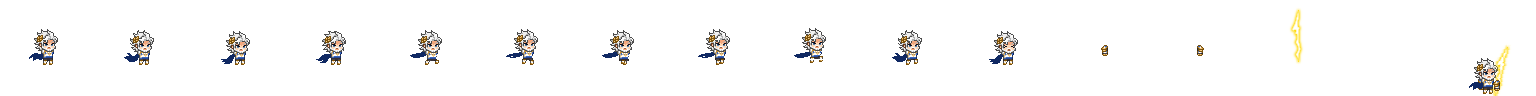
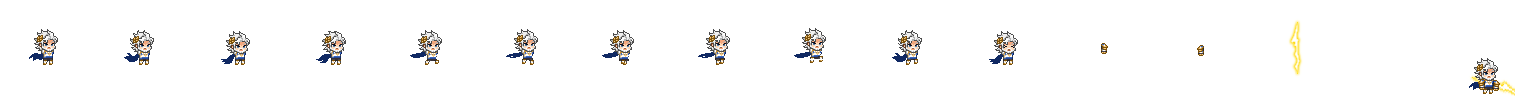
서약의 탑 제우스가 내린 오른손에 번개를 쥐고 창 던지듯 번개 자체를 던지도록 변경
- 원본 Arm0/Arm1이 뒤바뀌어 있던 것을 바로잡아 오른손(Arm1)을 내려 세운 앞 주먹으로, 왼손(Arm0)을 몸 앞 허리에 둠
- 번개는 끝이 앞을 향해 눕힌 뒤 시계 방향 20°(기본 각도 −110°)로 주먹 한가운데를 가로질러 쥐고, 무기 든 손과 번개는 몸 뒤·빈손은 몸 앞에 그림(weaponBehind)
- 어깨(4,13)·팔 길이 8px 모델: 주먹이 어깨에서 떨어지지 않고 팔 방향대로 돌아감(shoulder·arm)
- 공격은 팔을 앞으로 들어 머리 뒤로 젖혔다가 어깨 높이에서 수평으로 놓는 창 던지기(thrown). 게임이 쏘는 순간 ReleaseWeapon으로 손의 번개가 사라지고 복귀 때 다시 나타남
- 기본 공격 투사체를 같은 번개 스프라이트·금빛 후광·빛 꼬리로 그림(TowerVfx.ThrownWeapon, 번개 끝에서 출발)
- 시전 때 몸 앞 빈손은 얼굴을 가리지 않게 가슴 앞으로 내밂
- 생성기 paint_gods.py에 front·back·rest 덮어쓰기와 새 배치 키 추가, zeus.png·Gods.json 재베이크(다른 49장 동일)
- 검증: 격리 빌드에서 에덴 리뷰(50명·550포즈·144프레임), 신화 스모크 300/300, 동료 패시브 50/50, 실전 던지기 캡처

diff --git a/Assets/Demos/Roguelike/Scripts/TowerGodPixelArt.cs b/Assets/Demos/Roguelike/Scripts/TowerGodPixelArt.cs
@@ -20,8 +20,8 @@ namespace PrototypeLab.Roguelike
         [Serializable] sealed class Layout
         {
             public string id, kind; public int art;
-            public float[] bodyPivot, front, back, extra; public int[] bob, card;
-            public float top, rest, reach; public bool offhand, oneHand;
+            public float[] bodyPivot, front, back, extra, shoulder; public int[] bob, card;
+            public float top, rest, reach, arm; public bool offhand, oneHand, weaponBehind, thrown;
         }
         sealed class Sheet { public Layout layout; public Sprite[] body; public Sprite front, back, weapon, offhand, card; }
 
@@ -93,12 +93,12 @@ namespace PrototypeLab.Roguelike
 
         Sheet sheet;
         Layout layout;
-        Transform flip, pose, frontPivot, backPivot, weaponPivot, offhandPivot;
+        Transform flip, pose, frontPivot, backPivot, weaponPivot, offhandPivot, fistGrip;
         Transform[] extraPivots;
         SpriteRenderer bodyView, weaponView;
         SpriteRenderer[] views;
-        float gait;
-        bool posed;
+        float gait, weaponAlpha = 1, restArm;
+        bool posed, released;
 
         public int CurrentFrame { get; private set; }
         public string Kind { get { return layout.kind; } }
@@ -107,6 +107,13 @@ namespace PrototypeLab.Roguelike
         public float RenderedHeight { get { return layout.top / PixelsPerUnit * Mathf.Abs(transform.lossyScale.y); } }
         /// <summary>World position of the weapon's far end, for effects that leave the blade or staff.</summary>
         public Vector3 WeaponTip { get { return weaponPivot.TransformPoint(Vector3.up * layout.reach / PixelsPerUnit); } }
+        /// <summary>True for gods whose basic attack hurls the weapon in hand (Zeus's bolt) rather than a spark.</summary>
+        public bool ThrowsWeapon { get { return layout.thrown; } }
+        public Sprite WeaponSprite { get { return sheet.weapon; } }
+        /// <summary>Art pixels from the grip to the weapon's far end.</summary>
+        public float WeaponReach { get { return layout.reach; } }
+        /// <summary>The game threw the weapon: it leaves the hand until this attack's follow-through.</summary>
+        public void ReleaseWeapon() { released = true; }
 
         public void Build(int artIndex)
         {
@@ -126,12 +133,17 @@ namespace PrototypeLab.Roguelike
                 offhandPivot = Child("Off-hand item", pose);
                 list.Add(View(offhandPivot, sheet.offhand, 34));
             }
-            if (!layout.oneHand) list.Add(View(backPivot, sheet.back, 33));
+            // Gods that hold the weapon behind the body (Zeus) bring the free fist across the front instead.
+            bool behind = layout.weaponBehind;
+            if (!layout.oneHand) list.Add(View(backPivot, sheet.back, behind ? 37 : 33));
             bodyView = View(pose, sheet.body[0], 35); list.Add(bodyView);
             frontPivot = Child("Front fist", pose);
             weaponPivot = Child("Weapon", frontPivot);
-            weaponView = View(weaponPivot, sheet.weapon, 36); list.Add(weaponView);
-            list.Add(View(frontPivot, sheet.front, 37));
+            weaponView = View(weaponPivot, sheet.weapon, behind ? 33 : 36); list.Add(weaponView);
+            // A fist on an arm (Zeus) turns about its grip as the arm swings from the shoulder.
+            fistGrip = layout.arm > 0 ? Child("Front fist grip", frontPivot) : frontPivot;
+            if (layout.arm > 0) restArm = Mathf.Atan2(layout.front[1] - layout.shoulder[1], layout.front[0] - layout.shoulder[0]) * Mathf.Rad2Deg;
+            list.Add(View(fistGrip, sheet.front, behind ? 34 : 37));
             views = list.ToArray();
             Pose("Idle", false, 0, 0, 0, 1, Color.white, true, 0, 0, 0, .46f);
         }
@@ -153,6 +165,7 @@ namespace PrototypeLab.Roguelike
         }
 
         static Vector3 Px(float x, float y) { return new Vector3(x / PixelsPerUnit, y / PixelsPerUnit, 0); }
+        static Vector2 Direction(float degrees) { float a = degrees * Mathf.Deg2Rad; return new Vector2(Mathf.Cos(a), Mathf.Sin(a)); }
         static float Ease(float t) { return Mathf.SmoothStep(0, 1, Mathf.Clamp01(t)); }
 
         public void Pose(string motion, bool moving, float time, float progress, float hurt, int facing, Color tint,
@@ -214,7 +227,9 @@ namespace PrototypeLab.Roguelike
                 if (motion == "Cast")
                 {
                     frontAction = Vector2.Lerp(new Vector2(0, 12), new Vector2(5, 9), strike) * windup;
-                    backAction = Vector2.Lerp(new Vector2(3, 11), new Vector2(1, 8), strike) * windup;
+                    // A free fist in front of the body pushes out at the chest instead of crossing the face.
+                    backAction = (layout.weaponBehind ? Vector2.Lerp(new Vector2(2, 2), new Vector2(4, 1), strike)
+                        : Vector2.Lerp(new Vector2(3, 11), new Vector2(1, 8), strike)) * windup;
                     angleAction = Mathf.Lerp(-layout.rest, -layout.rest - 45, strike) * windup;
                 }
                 else Strike(windup, strike, ref frontAction, ref backAction, ref angleAction);
@@ -241,8 +256,17 @@ namespace PrototypeLab.Roguelike
                 angle = Mathf.Lerp(angle, -95, fall);
             }
 
+            // A fist on an arm never leaves the shoulder's reach, and turns as the arm swings.
+            if (layout.arm > 0)
+            {
+                Vector2 shoulder = new Vector2(layout.shoulder[0], layout.shoulder[1] - sink), reachOut = front - shoulder;
+                if (reachOut.magnitude > layout.arm) { reachOut = reachOut.normalized * layout.arm; front = shoulder + reachOut; }
+                if (reachOut.sqrMagnitude > 1)
+                    fistGrip.localRotation = Quaternion.Euler(0, 0, Mathf.DeltaAngle(restArm, Mathf.Atan2(reachOut.y, reachOut.x) * Mathf.Rad2Deg));
+            }
+
             // A weapon raised behind the head passes behind the body instead of across the face.
-            weaponView.sortingOrder = Mathf.DeltaAngle(layout.rest, angle) > 50 ? 34 : 36;
+            weaponView.sortingOrder = layout.weaponBehind ? 33 : Mathf.DeltaAngle(layout.rest, angle) > 50 ? 34 : 36;
             pose.localPosition = Px(body.x, body.y);
             pose.localRotation = Quaternion.Euler(0, 0, tilt);
             frontPivot.localPosition = Px(front.x, front.y);
@@ -254,6 +278,9 @@ namespace PrototypeLab.Roguelike
                 float lift = motion == "Cast" ? 4 * Ease(progress / Mathf.Max(.01f, release)) : 0;
                 extraPivots[i].localPosition = Px(layout.extra[i * 2], layout.extra[i * 2 + 1] - sink + lift + Mathf.Sin(time * 2.2f + i * 2.1f));
             }
+            // A hurled weapon is gone from the hand once the game throws it and forms in it again as the fist returns.
+            if (motion != "Attack" || progress < release * .5f) released = false;
+            weaponAlpha = layout.thrown && released ? Ease((progress - Mathf.Max(.8f, release + .2f)) / .15f) : 1;
             Tint(tint, motion, progress, hurt);
         }
 
@@ -278,6 +305,16 @@ namespace PrototypeLab.Roguelike
                     front = new Vector2(2, 0) * windup;
                     back = Vector2.Lerp(new Vector2(layout.front[0] - layout.back[0] - 5, layout.front[1] - layout.back[1]) * windup, new Vector2(-2, 1), strike);
                     break;
+                case "throw" when layout.thrown && layout.arm > 0:
+                    // An overhand throw on the arm: it lifts up the front and cocks back behind the head with the
+                    // weapon's tip raised to aim, comes back over the top to let go level with the shoulder on the
+                    // release and follows through low. Arm angles about the shoulder: 0 = forward, 90 = up, -90 = down.
+                    float cock = Ease(windup / .55f), drive = Ease((windup - .55f) / .45f);
+                    float sweep = Mathf.Lerp(Mathf.Lerp(restArm, 150, cock), 10, drive) - 50 * strike;
+                    front = new Vector2(layout.shoulder[0] - layout.front[0], layout.shoulder[1] - layout.front[1]) + Direction(sweep) * layout.arm;
+                    angle = Mathf.Lerp((-70 - layout.rest) * cock, -90 - layout.rest, drive);
+                    back = Vector2.Lerp(new Vector2(2, 1) * cock, new Vector2(-1, 0), drive);
+                    break;
                 case "throw":
                     angle = Mathf.Lerp(55 * windup, -70 - layout.rest, strike);
                     front = Vector2.Lerp(new Vector2(-4, 11) * windup, new Vector2(7, 5), strike);
@@ -298,6 +335,7 @@ namespace PrototypeLab.Roguelike
             if (hurt > .10f) color = Color.Lerp(color, new Color(1, .35f, .32f, color.a), .7f);
             if (motion == "Death") color.a *= 1 - Mathf.Clamp01((progress - .65f) / .35f) * .8f;
             foreach (var view in views) view.color = color;
+            if (weaponAlpha < 1) weaponView.color = new Color(color.r, color.g, color.b, color.a * weaponAlpha);
         }
     }
 }

diff --git a/Tools/TowerArt/GodPixels/paint_gods.py b/Tools/TowerArt/GodPixels/paint_gods.py
@@ -207,17 +207,26 @@ def portrait(body_cell, front, back, weapon, offhand, layout):
     def at(offset):
         return (origin[0] + offset[0] - GRIP, origin[1] - offset[1] - GRIP)
 
+    def held():
+        out.alpha_composite(rotate_about_grip(weapon, layout['rest']), at(layout['front']))
+        out.alpha_composite(front, at(layout['front']))
+
+    behind = layout['weaponBehind']
     for i in range(0, len(layout['extra']), 2):
         out.alpha_composite(back, at(layout['extra'][i:i + 2]))
-    if offhand is not None and layout['oneHand']:
+    if offhand is not None:
         out.alpha_composite(offhand, at(layout['back']))
-    elif not layout['oneHand']:
-        if offhand is not None:
-            out.alpha_composite(offhand, at(layout['back']))
+    if not layout['oneHand'] and not behind:
         out.alpha_composite(back, at(layout['back']))
+    if behind:
+        held()
     out.alpha_composite(body_cell, (int(round(origin[0] - layout['bodyPivot'][0])), int(origin[1] - layout['bodyPivot'][1])))
-    out.alpha_composite(rotate_about_grip(weapon, layout['rest']), at(layout['front']))
-    out.alpha_composite(front, at(layout['front']))
+    if behind:
+        # The free fist crosses in front of the body while the weapon hand stays behind it.
+        if not layout['oneHand']:
+            out.alpha_composite(back, at(layout['back']))
+    else:
+        held()
     # Every card shows the same window around the body, so the UI draws all gods at
     # Zeus's height; a long bolt or tall crown is cropped instead of shrinking its owner.
     left, top = origin[0] - CARD[0] // 2, origin[1] - CARD[1] + CARD_BELOW
@@ -317,11 +326,13 @@ def build(g):
         arm0 = Image.open(os.path.join(ZEUS_DIR, 'Arm0.png')).convert('RGBA')
         arm1 = Image.open(os.path.join(ZEUS_DIR, 'Arm1.png')).convert('RGBA')
         front, back = Image.new('RGBA', (CELL, CELL)), Image.new('RGBA', (CELL, CELL))
-        front.alpha_composite(arm0, (GRIP - 9, GRIP - 10))
-        back.alpha_composite(arm1, (GRIP - 10, GRIP - 10))
+        # Arm1 is the right hand, hanging upright; the middle of the bolt runs level through the middle
+        # of the fist (Arm1 pixel 10, 12), square across it. Arm0, the left hand, rests in front of the body.
+        front.alpha_composite(arm1, (GRIP - 10, GRIP - 12))
+        back.alpha_composite(arm0, (GRIP - 9, GRIP - 10))
         bolt = Image.open(os.path.join(ZEUS_DIR, 'Weapon.png')).convert('RGBA')
         weapon = Image.new('RGBA', (CELL, CELL))
-        grip = (29, 50)
+        grip = (30, 38)
         weapon.alpha_composite(bolt, (GRIP - grip[0], GRIP - grip[1]))
         tip = grip[1] - bolt.getbbox()[1]
         offhand = None
@@ -343,12 +354,16 @@ def build(g):
         'pivot': [0, 0],
         'top': HEAD_TOP,
         'bob': bob(g),
-        'front': [x + reach for x, reach in zip(FRONT_BY_KIND.get(kind, FRONT_HAND), (wide, 0))],
-        'back': [x + reach for x, reach in zip(BACK_HAND, (-wide, 0))],
-        'rest': REST_ANGLE[kind],
+        'front': list(g.get('front') or [x + reach for x, reach in zip(FRONT_BY_KIND.get(kind, FRONT_HAND), (wide, 0))]),
+        'back': list(g.get('back') or [x + reach for x, reach in zip(BACK_HAND, (-wide, 0))]),
+        'rest': g.get('rest', REST_ANGLE[kind]),
         'reach': tip,
         'offhand': offhand is not None,
         'oneHand': bool(g.get('one_hand')),
+        'weaponBehind': bool(g.get('weapon_behind')),
+        'thrown': bool(g.get('thrown')),
+        'shoulder': list(g.get('shoulder', ())),
+        'arm': g.get('arm', 0),
         'extra': [v for e in EXTRA_HANDS[:g.get('extra_hands', 0)] for v in e],
     }
     cells = [cell_of_body(f) for f in frames]
@@ -363,7 +378,11 @@ def build(g):
     return sheet, layout, frames
 
 
-ZEUS = dict(id='zeus', art=105, kind='throw')
+# Zeus carries his bolt across his lowered right fist, tip forward and turned 20 degrees down, and hurls
+# the bolt itself; the left fist rests at his waist in front of the body. The right fist stays on an
+# 8 px arm from the shoulder at the top of his torso (column 35, row 42) and turns with it.
+ZEUS = dict(id='zeus', art=105, kind='throw', weapon_behind=True, thrown=True, front=(8, 9), back=(-7, 12), rest=-110,
+            shoulder=(4, 13), arm=8)
 
 
 def preview(results, path, scale=4):

diff --git a/Assets/Demos/Roguelike/Scripts/TowerVfx.Thrown.cs b/Assets/Demos/Roguelike/Scripts/TowerVfx.Thrown.cs
@@ -1,0 +1,48 @@
+using System;
+using UnityEngine;
+
+namespace PrototypeLab.Roguelike
+{
+    // Weapons that leave a god's hand as the shot itself: Zeus hurls the bolt he holds. The flying weapon is the
+    // same pixel sprite the hand let go of, tip on the shot's contact point, in a warm glow that trails a ribbon of light.
+    public sealed partial class TowerVfx
+    {
+        /// <summary>
+        /// Dresses a companion's basic shot as the weapon it threw. <paramref name="weapon"/> points up from its grip pivot,
+        /// <paramref name="reach"/> art pixels to the tip, and is drawn at the thrower's <paramref name="scale"/>.
+        /// </summary>
+        public void ThrownWeapon(Transform root, Sprite weapon, float scale, float reach, Color tint)
+        {
+            if (!root || !weapon) return;
+            EnsureTextures();
+            var old = root.GetComponent<SpriteRenderer>(); if (old) old.enabled = false;
+            Clip existing; if (attached.TryGetValue(root, out existing)) Retire(existing);
+            root.localScale = Vector3.one;
+            // The shot flies along the root's x axis; the weapon lies along it with its tip leading.
+            float length = reach * scale / TowerGodPixelArt.PixelsPerUnit;
+            // The hand holds the weapon at its middle, so the glow centres on the grip.
+            Vector2 grip = new Vector2(-length, 0);
+            Color light = Color.Lerp(tint, Color.white, .55f);
+            var body = Attach(root, "Thrown weapon", weapon, weapon.bounds.size.x * scale, Color.white, 123, false, grip);
+            body.angle = -90;
+            var halo = Attach(root, "Thrown weapon glow", glow, length * 2.6f, Alpha(tint, .6f), 121, true, grip);
+            halo.scale.y *= .26f; halo.pulse = .12f; halo.flicker = .25f;
+            var tip = Attach(root, "Thrown weapon tip", glow, .6f, Alpha(light, .9f), 124); tip.pulse = .2f;
+            Emitter(halo, 30, 0, ThrownRibbon(root.TransformPoint(grip), .2f, Alpha(tint, .55f), .16f));
+            Emitter(tip, Emit.Sparkles, 18, .25f, light);
+            Bundle(root, body, halo, tip);
+        }
+
+        private Action<Clip, Vector2> ThrownRibbon(Vector2 start, float thickness, Color color, float life)
+        {
+            Vector2 last = start;
+            return (owner, p) =>
+            {
+                Vector2 now = owner.root.transform.position;
+                if ((now - last).sqrMagnitude < .0025f) return;
+                var band = Line(last, now, thickness, color, life, 120, 1.3f); band.axisEnd = new Vector2(1, .15f);
+                last = now;
+            };
+        }
+    }
+}

diff --git a/Assets/Demos/Roguelike/Scripts/TowerPresentation.cs b/Assets/Demos/Roguelike/Scripts/TowerPresentation.cs
@@ -55,7 +55,19 @@ namespace PrototypeLab.Roguelike
             Color color;ColorUtility.TryParseHtmlString("#"+state.Definition.TintHex,out color);
             if(state.Definition.Role==CompanionRole.Vanguard)
             {SlashArc(actor.pos+new Vector2(actor.facing,.8f),actor.facing,color);if((target.pos.x-actor.pos.x)*actor.facing>-.4f)AllyStrike(actor,state,target);}
-            else{Fire(actor.pos+Vector2.up*.78f,target.pos+Vector2.up*.7f,11,state.Damage,false,color,0,state);TagAllyShot(actor,state,target,color);}
+            else{Vector2 to=target.pos+Vector2.up*.7f;Fire(ShotOrigin(actor,to),to,11,state.Damage,false,color,0,state);ThrowWeapon(actor,color);TagAllyShot(actor,state,target,color);}
+        }
+        // A god who hurls the weapon in hand (Zeus's bolt) looses it tip first from the hand, unless the target already stands that close.
+        private Vector2 ShotOrigin(Fighter actor,Vector2 to)
+        {
+            Vector2 from=actor.pos+Vector2.up*.78f;var god=actor.art.PixelGod;
+            if(god==null||!god.ThrowsWeapon)return from;
+            Vector2 tip=god.WeaponTip;return (to.x-tip.x)*actor.facing>.4f?tip:from;
+        }
+        private void ThrowWeapon(Fighter actor,Color color)
+        {
+            var god=actor.art.PixelGod;if(god==null||!god.ThrowsWeapon||shots.Count==0||vfx==null)return;
+            vfx.ThrownWeapon(shots[shots.Count-1].root.transform,god.WeaponSprite,Mathf.Abs(god.transform.lossyScale.y),god.WeaponReach,color);god.ReleaseWeapon();
         }
         private void StartEnemyMotion(Fighter actor,float windup)
         {

diff --git a/Assets/Demos/Roguelike/Scripts/TowerActorArt.cs b/Assets/Demos/Roguelike/Scripts/TowerActorArt.cs
@@ -80,6 +80,8 @@ namespace PrototypeLab.Roguelike
             }
         }
         public string CurrentMotion { get { return MotionName; } }
+        /// <summary>The pixel god renderer of a companion, or null for the player and monsters.</summary>
+        public TowerGodPixelArt PixelGod { get { return mythArt!=null?mythArt.Pixel:null; } }
         public float ActionTime { get { return actionTime; } }
         public float ActionDuration { get { return actionDuration; } }
         public float AttackHitTime(float duration){return Mathf.Max(.08f,duration)*(isMonster?.48f:profile.contact);}

diff --git a/Assets/Demos/Roguelike/Scripts/TowerMythArt.cs b/Assets/Demos/Roguelike/Scripts/TowerMythArt.cs
@@ -29,6 +29,7 @@ namespace PrototypeLab.Roguelike
         TowerGodPixelArt pixel;
         public int CurrentFrameRow { get; private set; }
         public float RenderedHeight { get { return pixel==null?0:pixel.RenderedHeight; } }
+        public TowerGodPixelArt Pixel { get { return pixel; } }
         public static bool IsMythIndex(int artIndex){return artIndex>=FirstArtIndex&&artIndex<FirstArtIndex+CharacterCount;}
         public static string ProfileName(int artIndex){return Names[Ordinal(artIndex)];}
         /// <summary>The mythology a companion belongs to.</summary>

diff --git a/Docs/Roguelike-God-Pixels.md b/Docs/Roguelike-God-Pixels.md
@@ -2,7 +2,7 @@
 
 서약의 탑 동료 신 50명은 chuchuking 작업자가 그린 제우스 도트(`Assets/RogueLike/Character/Zeus`, 커밋 ce81eb3)와 같은 방식으로 그립니다. 몸통 스트립 한 장에 떠 있는 주먹 두 개와 무기를 따로 붙이고, 무기는 코드로 휘두릅니다.
 
-- **제우스**: chuchuking 원본을 그대로 씁니다. 대기 4프레임(`Idle_0`–`Idle_3`), 주먹(`Arm0`, `Arm1`), 번개(`Weapon`)는 픽셀을 바꾸지 않습니다. 달리기·점프·낙하·피격 프레임만 원본 장화와 망토를 옮겨 만듭니다.
+- **제우스**: chuchuking 원본을 그대로 씁니다. 대기 4프레임(`Idle_0`–`Idle_3`), 주먹(`Arm0`, `Arm1`), 번개(`Weapon`)는 픽셀을 바꾸지 않습니다. 달리기·점프·낙하·피격 프레임만 원본 장화와 망토를 옮겨 만듭니다. `Arm1`은 오른손이라 팔을 내려 세운 앞 주먹으로 쓰고, 번개는 끝이 앞을 향하게 눕힌 뒤 시계 방향으로 20° 더 돌려(기본 각도 −110°, 끝이 앞쪽 아래) 가운데(`Weapon` 30, 38)가 주먹 한가운데(`Arm1` 10, 12)를 가로지릅니다. 왼손 `Arm0`은 몸 앞 허리에 둡니다.
 - **나머지 49명**: 제우스의 61×75 캔버스, 얼굴 위치, 기본 몸통 폭(가슴 8px, 장화 3px), 망토 네 프레임, 외곽선 색 규칙을 그대로 따르는 부품으로 그립니다. 머리 모양·투구·왕관·수염·날개·꼬리·무기는 `Tools/TowerArt/GodPixels`의 ASCII 도안입니다.
 - **키**: 장화 끝(54행)부터 정수리(19행)까지 모두 제우스와 같은 36px입니다. 모든 머리의 19–21행은 제우스 정수리(가는 삐침 두 가닥과 외곽선) 그대로라 꽉 찬 머리는 22행부터 시작하고, 장화도 제우스 발 모양(앞발 3→2px, 뒷발 2px)으로 54행에서 닫힙니다. 후광·관·모자·뿔·귀만 그 위로 나오고, 시바·단군·환웅의 상투도 장식처럼 3px 솟습니다.
 - **얼굴**: 얼굴형은 제우스 얼굴을 그대로 옮겼습니다. 앞머리 아래 이마(29–32행)는 그림자색, 입은 37행 2px이고, 수염이 없는 신의 턱은 제우스 수염 윤곽을 따라 40행에서 닫힙니다.
@@ -32,16 +32,17 @@ PATH의 `python`이 스토어 스텁이면 `%USERPROFILE%\.cache\codex-runtimes\
 | 13, 14 | 무기, 보조 장비(아테나 방패, 티르 버클러, 오시리스 도리깨 등) |
 | 15 | 카드 초상(대기 자세 + 주먹 + 무기). 모든 신이 같은 54×54px 창이라 UI에서도 같은 배율로 보입니다 |
 
-`Gods.json`에는 몸 받침점(장화 사이), 주먹 휴식 위치(넓은 체형은 1px 바깥), 무기 잡는 점과 기본 각도, 공격 방식, 칸별 상체 하강량, 여분 팔(시바·비슈누·브라흐마·가네샤), 카드 잘라낼 영역이 들어 있습니다.
+`Gods.json`에는 몸 받침점(장화 사이), 주먹 휴식 위치(넓은 체형은 1px 바깥), 무기 잡는 점과 기본 각도, 공격 방식, 칸별 상체 하강량, 여분 팔(시바·비슈누·브라흐마·가네샤), 카드 잘라낼 영역이 들어 있습니다. `weaponBehind`(제우스)는 무기 든 앞 주먹과 무기를 몸 뒤에, 빈 뒤 주먹을 몸 앞에 그립니다. `thrown`(제우스)은 쥔 무기 자체를 던지는 신으로, 기본 공격 투사체가 그 무기 스프라이트가 됩니다. `shoulder`·`arm`(제우스: 몸통 오른쪽 위 4,13 / 8px)이 있으면 앞 주먹은 어깨에서 팔 길이 안에서만 움직이고(밖으로 나가면 팔 길이로 당김) 팔 방향을 따라 돌아, 공격 중에도 몸에서 떨어져 떠다니지 않습니다. 주먹 휴식 위치와 기본 각도는 신 정의의 `front`·`back`·`rest`로 덮어쓸 수 있습니다(제우스: 8,9 / −7,12 / −110°).
 
 ## 런타임
 
 `TowerGodPixelArt`가 그립니다. `TowerMythArt.Build`는 50명 모두를 이 경로로 보냅니다. 화소 비율은 1유닛당 20px이고, 게임의 동료 배율 0.82를 곱하면 예전 동료와 비슷한 키가 됩니다.
 
 - 몸은 대기 5fps, 달리기는 이동 속도에 맞춰 프레임을 넘깁니다. 장화는 항상 액터 원점에 붙어 있습니다.
-- 공격 방식: `swing`(머리 뒤로 들었다가 앞으로 베기, 들어 올린 동안 무기가 몸 뒤로), `thrust`(수평으로 찌르기), `bow`(뒤 주먹이 시위를 당겼다 놓기), `cast`(초점을 들었다 적에게 겨누기), `throw`(제우스 번개·비슈누 차크라 투척). 모든 동작은 게임의 피해 발생 시점(`releaseFraction`)에 맞춰 내리치고, 시작과 끝은 이동 자세와 섞여 끊기지 않습니다.
+- 공격 방식: `swing`(머리 뒤로 들었다가 앞으로 베기, 들어 올린 동안 무기가 몸 뒤로), `thrust`(수평으로 찌르기), `bow`(뒤 주먹이 시위를 당겼다 놓기), `cast`(초점을 들었다 적에게 겨누기), `throw`(제우스 번개·비슈누 차크라 투척). `thrown`인 제우스는 어깨를 축으로 팔을 휘둘러 창 던지듯 던집니다. 내린 팔을 앞으로 들어 머리 뒤로 젖히는 동안 번개 끝은 아래 20°에서 위 20°로 들려 앞을 겨누고, 팔이 머리 위를 넘어 앞으로 나오면서 피해 시점에 어깨 높이에서 수평으로 놓은 뒤 아래로 따라 내립니다. 게임이 투사체를 쏘는 순간(`ReleaseWeapon`) 번개는 손을 떠나 투사체(`TowerVfx.ThrownWeapon`: 같은 번개 스프라이트, 끝이 충돌점, 금빛 후광·빛 꼬리)로 날아가고, 손의 번개는 주먹이 돌아오는 진행도 0.8–0.95 사이에 다시 나타납니다. 쏘지 못한 공격에서는 번개가 손에 남습니다. 투사체는 번개 끝에서 출발하며, 적이 그보다 가까우면 가슴 높이에서 출발합니다. 모든 동작은 게임의 피해 발생 시점(`releaseFraction`)에 맞춰 내리치고, 시작과 끝은 이동 자세와 섞여 끊기지 않습니다.
 - 스킬 시전은 두 주먹과 무기를 머리 위로 올립니다. 피격은 붉게 깜박이며 뒤로 밀리고, 사망은 장화를 축으로 뒤로 쓰러지며 흐려집니다.
 - 일시정지(dt 0)에서는 자세가 바뀌지 않고 좌우 반전과 색만 반영합니다.
+- 그리는 순서(sortingOrder): 여분 팔 32, 뒤 주먹 33, 보조 장비 34, 몸 35, 무기 36, 앞 주먹 37. `weaponBehind`이면 무기 33, 앞 주먹 34, 뒤 주먹 37로 바뀌고 무기는 공격 중에도 몸 뒤에 남습니다. 이때 시전하는 빈손은 얼굴을 가리지 않도록 머리 위가 아니라 가슴 앞으로 내밉니다.
 
 ## 검증
 
